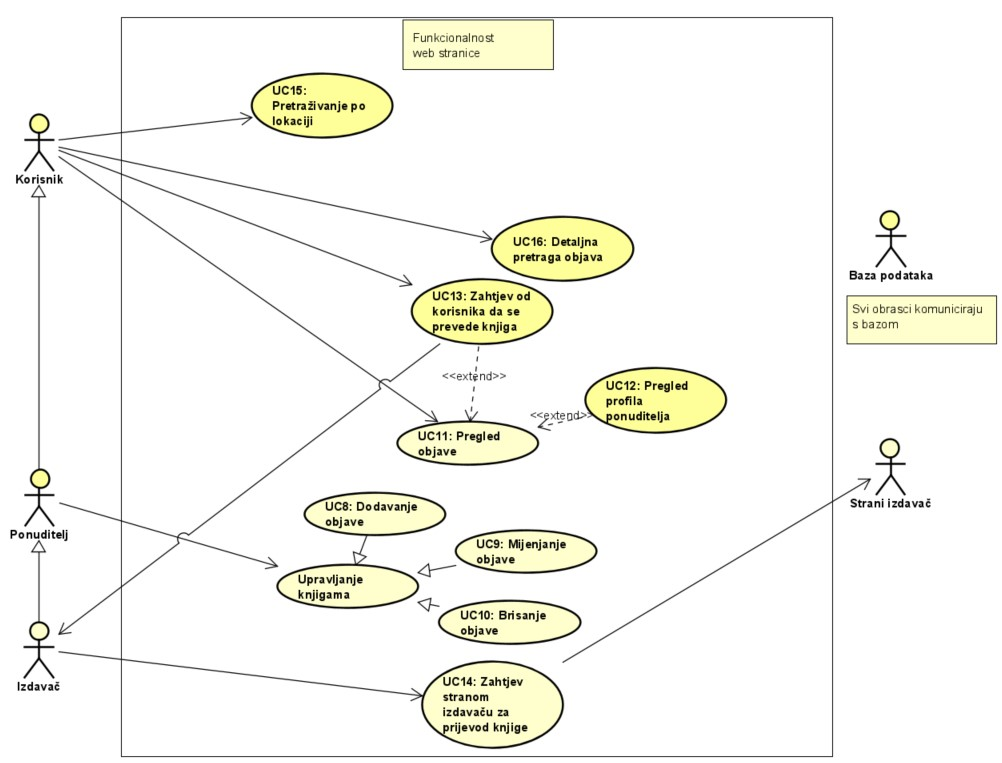
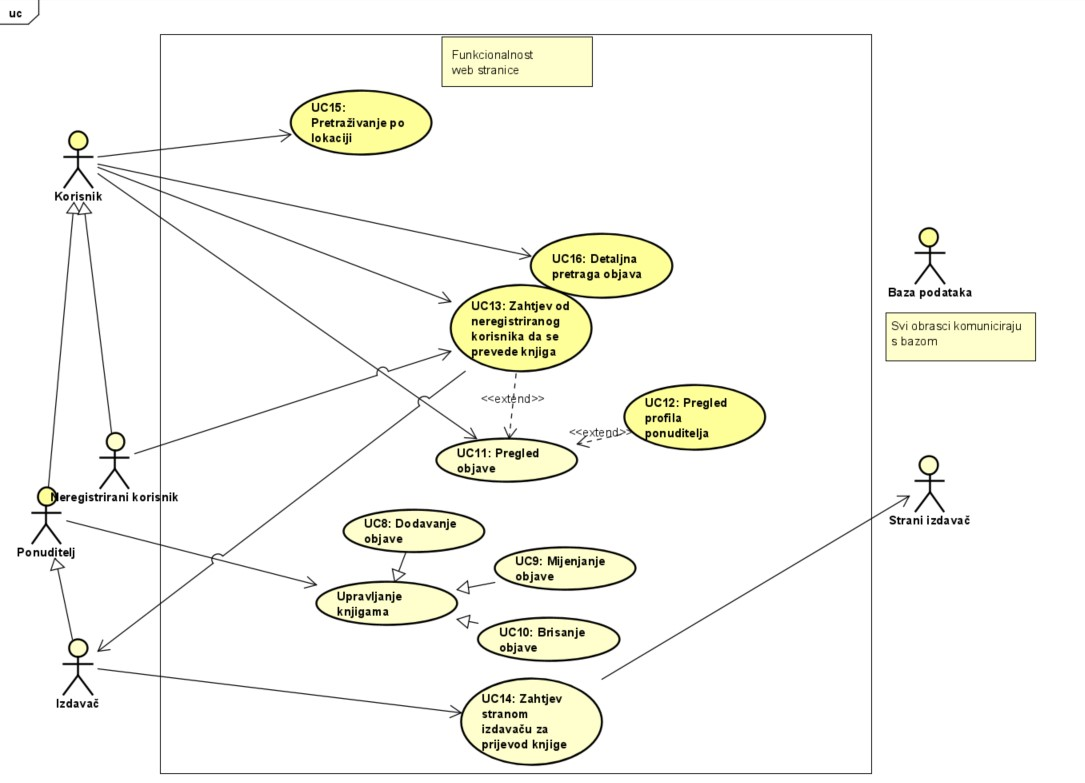
ispravci kod aktera i obrazaca, nova slika dijagrama obrazaca

diff --git a/Dokumentacija/Specifikacija_programske_potpore.tex b/Dokumentacija/Specifikacija_programske_potpore.tex
@@ -28,8 +28,7 @@
                         				\item Pretraživati knjige po njihovim atributima i po ponuditeljima
                         				\item Pregledavati objave
                         				\item Pregledavati profil ponuditelja
-					      	\item Pretraživati na karti ponuditelje
-                       				\item Slati zahtjev izdavačima da se knjiga na stranom jeziku prevede
+					      	\item Pretraživati na karti ponuditelje                      				
                     				\end{packed_enum}
 				\item  \underbar{Neregistrirani korisnik(inicijator) može:}
 				
@@ -37,7 +36,7 @@
 					
 					\item Napraviti korisnički račun registracijom za što mu treba korisničko ime, lozinka, e-mail, broj mobitela i adresa i može birati u koju će kategoriju ponuditelja spadati
 					%\begin{packed_enum}
-						
+					\item Slati zahtjev izdavačima da se knjiga na stranom jeziku prevede	
 						%\item  podfunkcionalnost 1 
 						%\item  podfunkcionalnost 2
 				
@@ -402,11 +401,11 @@
 						\item  \textbf{Opis mogućih odstupanja: -}
 					\end{packed_item}
 
-                    \noindent \underbar{\textbf{UC13 - Zahtjev od korisnika da se knjiga prevede}}
+                    \noindent \underbar{\textbf{UC13 - Zahtjev od neregistriranog korisnika da se knjiga prevede}}
 					\begin{packed_item}
 	
-						\item \textbf{Glavni sudionik: } Korisnik
-						\item  \textbf{Cilj:} Korisnik traži izdavača da se knjiga prevede
+						\item \textbf{Glavni sudionik: } Neregistrirani korisnik
+						\item  \textbf{Cilj:} Neregistrirani korisnik traži izdavača da se knjiga prevede
 						\item  \textbf{Sudionici:} Baza podataka, izdavač
 						\item  \textbf{Preduvjet:} - Postoji objava za knjigu
 						\item  \textbf{Opis osnovnog tijeka:}
@@ -426,9 +425,9 @@
 					\begin{packed_item}
 	
 						\item \textbf{Glavni sudionik: } Izdavač
-						\item  \textbf{Cilj:} Izrada korisničkog računa za web stranicu
+						\item  \textbf{Cilj:} Izdavač šalje zahtjev stranom izdavaču da se knjiga prevede
 						\item  \textbf{Sudionici:} Baza podataka, strani izdavač
-						\item  \textbf{Preduvjet:} -
+						\item  \textbf{Preduvjet:} Postoji objava za knjigu
 						\item  \textbf{Opis osnovnog tijeka:}
 						
 						\item[] \begin{packed_enum}
